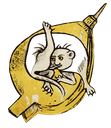
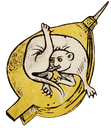
Restore pale creature body in gold-shape cutout and retain source

diff --git a/scripts/generate_sizes.py b/scripts/generate_sizes.py
@@ -1,6 +1,7 @@
 #!/usr/bin/env python3
 """Build downscaled PNG/WebP variants, preserving original alpha."""
 
+import argparse
 import hashlib
 import json
 from pathlib import Path
@@ -29,14 +30,31 @@ def verify_pair(expected, png, webp):
 
 
 def main():
+    parser = argparse.ArgumentParser(description=__doc__)
+    parser.add_argument('--name', action='append', help='Only regenerate this cataloged image; repeat for multiple names.')
+    args = parser.parse_args()
     originals = list((ROOT / 'png').glob('*.png')) + list((ROOT / 'webp').glob('*.webp'))
     hashes = {path: digest(path) for path in originals}
     catalog = json.loads((ROOT / 'images.json').read_text())
+    selected = set(args.name or (item['name'] for item in catalog))
+    unknown = selected - {item['name'] for item in catalog}
+    if unknown:
+        parser.error('Unknown image names: ' + ', '.join(sorted(unknown)))
     count = 0
     for item in catalog:
+        if item['name'] not in selected:
+            continue
         with Image.open(ROOT / item['png']) as image:
             original = image.convert('RGBA')
         assert original.size == (item['width'], item['height']), item['name']
+        # A corrected master may be smaller: remove obsolete exports of this image.
+        for variant in item.get('variants', []):
+            limit = variant['max_dimension']
+            if limit >= max(original.size):
+                for fmt in ('png', 'webp'):
+                    stale = ROOT / variant[fmt]
+                    assert stale == ROOT / fmt / str(limit) / f"{item['name']}.{fmt}"
+                    stale.unlink(missing_ok=True)
         variants = []
         for limit in SIZES:
             # Each variant starts from the original. Never enlarge a smaller image.
@@ -71,6 +89,8 @@ def main():
     (ROOT / 'images.json').write_text(json.dumps(catalog, indent=2) + '\n')
     print(f'Generated and verified {count} PNG/WebP pairs ({count * 2} files).')
     print(f'All {len(hashes)} original files remain byte-for-byte unchanged.')
+    if 'flying-pig' not in selected:
+        return
     pig = next(item for item in catalog if item['name'] == 'flying-pig')
     for variant in pig['variants']:
         print(f"Flying pig {variant['max_dimension']}px WebP: {variant['webp_bytes']:,} bytes (original: {pig['webp_bytes']:,})")

diff --git a/README.md b/README.md
@@ -8,6 +8,8 @@ The twelve musicians from the three-row, four-column illustration use `r1-c1` th
 
 Cutouts were prepared from supplied illustrations using image generation and background extraction. WebP conversion is lossless; visible pixels and alpha channels were checked against the PNG originals.
 
+The supplied original for [`creature-in-gold-shape`](png/creature-in-gold-shape.png) is retained in [`sources/`](sources/). Its corrected extraction preserves the pale curved body that was previously mistaken for background, and is capped at the source's 650px longest edge. Image generation can reinterpret fine details; this is not a pixel-exact historical extraction. The correction prompt is recorded in [EXTRACTION-PROMPTS.json](EXTRACTION-PROMPTS.json).
+
 For adding images or making changes, follow [the repository guide](AGENTS.md). `CLAUDE.md` imports it so agent instructions stay in one place.
 
 ## Smaller sizes
@@ -212,7 +214,7 @@ Categories overlap. See [the selection guide](SELECTION.md) for tag meanings and
 - [animal-choir-landscape](webp/animal-choir-landscape.webp) — A herd of cattle and a small hoofed animal face left toward a wooden music stand with an open score, with two small birds flying above and a narrow greenish ground strip beneath the full group.
 - [rabbit-reading-book](webp/rabbit-reading-book.webp) — A brown rabbit with tall ears and a wide white eye leans left over an open pale book, with a paw resting on the marked pages.
 - [cat-reading-book](webp/cat-reading-book.webp) — A seated blue-gray cat with a long striped tail and thin whiskers tilts its head up-right beside an open pale book, with a paw on the pages.
-- [creature-in-gold-shape](webp/creature-in-gold-shape.webp) — A pale grotesque creature with a round face, dark mouthpiece-like object, raised arm, and curling appendages sits within a large curved gold form with a pointed upper-right extension.
+- [creature-in-gold-shape](webp/creature-in-gold-shape.webp) — A pale grotesque creature with a round face, dark mouthpiece-like object, raised arm, large curved pale body, and curling appendages sits within a curved gold form with a pointed upper-right extension.
 
 </details>
 
@@ -268,6 +270,6 @@ Categories overlap. See [the selection guide](SELECTION.md) for tag meanings and
 | <img src="webp/128/animal-choir-landscape.webp" width="100" alt="animal-choir-landscape"> | [animal-choir-landscape](png/animal-choir-landscape.png) | [WebP](webp/animal-choir-landscape.webp) | 2135 × 737 | [128](webp/128/animal-choir-landscape.webp) · [256](webp/256/animal-choir-landscape.webp) · [512](webp/512/animal-choir-landscape.webp) · [768](webp/768/animal-choir-landscape.webp) |
 | <img src="webp/128/rabbit-reading-book.webp" width="100" alt="rabbit-reading-book"> | [rabbit-reading-book](png/rabbit-reading-book.png) | [WebP](webp/rabbit-reading-book.webp) | 1500 × 1049 | [128](webp/128/rabbit-reading-book.webp) · [256](webp/256/rabbit-reading-book.webp) · [512](webp/512/rabbit-reading-book.webp) · [768](webp/768/rabbit-reading-book.webp) |
 | <img src="webp/128/cat-reading-book.webp" width="100" alt="cat-reading-book"> | [cat-reading-book](png/cat-reading-book.png) | [WebP](webp/cat-reading-book.webp) | 1254 × 1254 | [128](webp/128/cat-reading-book.webp) · [256](webp/256/cat-reading-book.webp) · [512](webp/512/cat-reading-book.webp) · [768](webp/768/cat-reading-book.webp) |
-| <img src="webp/128/creature-in-gold-shape.webp" width="100" alt="creature-in-gold-shape"> | [creature-in-gold-shape](png/creature-in-gold-shape.png) | [WebP](webp/creature-in-gold-shape.webp) | 1167 × 1348 | [128](webp/128/creature-in-gold-shape.webp) · [256](webp/256/creature-in-gold-shape.webp) · [512](webp/512/creature-in-gold-shape.webp) · [768](webp/768/creature-in-gold-shape.webp) |
+| <img src="webp/128/creature-in-gold-shape.webp" width="100" alt="creature-in-gold-shape"> | [creature-in-gold-shape](png/creature-in-gold-shape.png) | [WebP](webp/creature-in-gold-shape.webp) | 563 × 650 | [128](webp/128/creature-in-gold-shape.webp) · [256](webp/256/creature-in-gold-shape.webp) · [512](webp/512/creature-in-gold-shape.webp) |
 | <img src="webp/128/funny-faced-lying-cat.webp" width="100" alt="funny-faced-lying-cat"> | [funny-faced-lying-cat](png/funny-faced-lying-cat.png) | [WebP](webp/funny-faced-lying-cat.webp) | 1448 × 1086 | [128](webp/128/funny-faced-lying-cat.webp) · [256](webp/256/funny-faced-lying-cat.webp) · [512](webp/512/funny-faced-lying-cat.webp) · [768](webp/768/funny-faced-lying-cat.webp) |
 | <img src="webp/128/hooded-harp-player.webp" width="100" alt="hooded-harp-player"> | [hooded-harp-player](png/hooded-harp-player.png) | [WebP](webp/hooded-harp-player.webp) | 1089 × 1444 | [128](webp/128/hooded-harp-player.webp) · [256](webp/256/hooded-harp-player.webp) · [512](webp/512/hooded-harp-player.webp) · [768](webp/768/hooded-harp-player.webp) |

diff --git a/AGENTS.md b/AGENTS.md
@@ -16,6 +16,8 @@ This is `adrian729/medieval-cutouts`, a public collection of medieval manuscript
 | `scripts/generate_sizes.py` | Generates and verifies smaller PNG/WebP pairs from cataloged originals. |
 | `scripts/update_category_index.py` | Validates metadata and paths; generates the README category index. |
 | `requirements.txt` | Pillow dependency for image conversion and resizing. |
+| `sources/` | Retained supplied originals for documented corrections; reference material, not cutouts. |
+| `EXTRACTION-PROMPTS.json` | Recorded correction prompts and methods, with retained source paths. |
 | `AGENTS.md` | Canonical agent instructions; edit this file when conventions change. |
 | `CLAUDE.md` | Imports this guide; do not duplicate the instructions there. |
 
@@ -47,7 +49,7 @@ If changing category or color vocabulary, update `SELECTION.md` and the constant
 1. Inspect the supplied illustration and prepare the requested transparent cutout, or preserve the supplied scene unchanged when requested. Choose a unique, accurate name and save the original as `png/<name>.png`; do not overwrite an unrelated asset.
 2. Create `webp/<name>.webp` from that PNG with Pillow, using RGBA pixels and `format='WEBP', lossless=True, method=6, exact=True`. Verify dimensions, alpha, and visible pixels against the PNG. The existing `verify_pair` function in `scripts/generate_sizes.py` can perform this check.
 3. Append a complete catalog entry with measured original dimensions and file byte sizes, the six selection fields, and an initially empty `variants` array. **The resize generator reads the catalog; it does not discover new PNGs automatically.**
-4. Run `python3 scripts/generate_sizes.py`. It fills `variants` and validates generated PNG/WebP pairs. It currently processes all cataloged images, so review any unrelated changes rather than blindly staging them.
+4. Run `python3 scripts/generate_sizes.py --name <name>`. It fills `variants` and validates generated PNG/WebP pairs for that image. Without `--name`, it processes all cataloged images. If a corrected master is smaller, obsolete variants at or above its size are removed. Review changes rather than blindly staging them.
 5. Add a row to the README's `## Images` gallery, matching its existing columns: preview, original PNG, original WebP, original dimensions, and links to available smaller WebPs. Choose an available small preview; do not link to skipped variants. Update the collection count in the README introduction.
 6. Run `python3 scripts/update_category_index.py` to refresh categories, then the checks below. Inspect the new image on light and dark backgrounds and at a small display size.
 
@@ -66,6 +68,7 @@ Confirmed identifications to preserve:
 - `fish-with-arms`: a fish with raised human arms.
 - `donkey-rooster-lute-player`: a half-donkey, half-rooster hybrid playing a lute.
 - `seated-rabbit`: its description includes its tired-looking expression and half-closed eye.
+- `creature-in-gold-shape`: preserve the large pale curved body inside the gold form as opaque artwork. It is not background. Its supplied original is retained in `sources/`; the corrected extraction is capped at the source's 650px longest edge.
 
 ## Setup and validation
 

diff --git a/sources/README.md b/sources/README.md
@@ -1,0 +1,5 @@
+# Retained source images
+
+`creature-in-gold-shape.png` is the supplied original, preserved byte for byte so its cutout can be corrected again. It includes the surrounding paper and is reference material, not a reusable transparent asset. Its historical provenance and license have not been established.
+
+The corrected extraction keeps the large pale curved body inside the gold form opaque; the previous extraction incorrectly removed it. The built-in imagegen method can reinterpret fine details and is not a pixel-exact mask. Its exact correction prompt is recorded in `../EXTRACTION-PROMPTS.json`. The reusable PNG/WebP master is capped at the supplied image's 650px longest edge.
